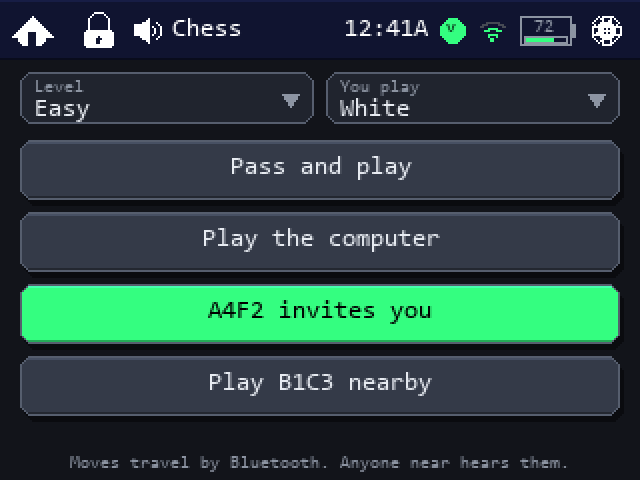
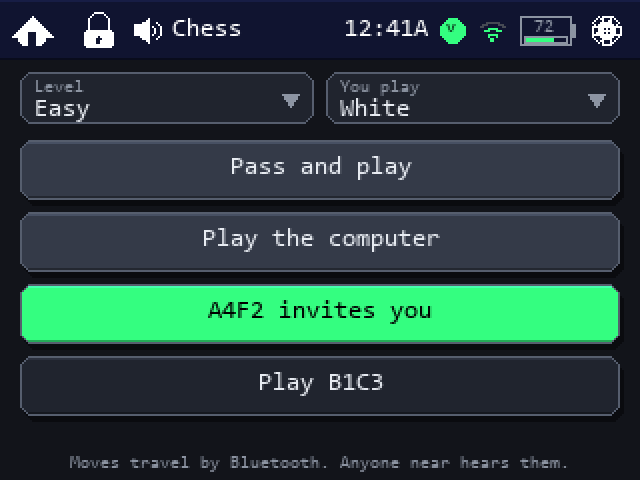
Docs for the nearby lobbies, the lobby mock-ups, and the build figures
CHANGELOG and README describe the lobbies: who is in the room, standing
invitations (issue 232), the console-owned save, Go's rules in the session
number. Root CLAUDE.md states the Stops exception to the Attaky-only rule
and the session-number gap for a game kept only in the console's slot.
The Chess, Go and Backgammon lobby mock-ups show the new rows.

pio run -e app: flash 2,645,037 (84.1%), RAM 92,868 (28.3%).

Changed region(s): [[0.0312, 0.7188, 0.9688, 0.875]]

diff --git a/tools/gen_screens.py b/tools/gen_screens.py
@@ -100,6 +100,20 @@ def button(d, r, label, fill=None, tc=None, f=F2):
     d.text((x + (w - d.textlength(s, font=f)) / 2, y + h / 2 - f.size / 2 - 1), s, font=f, fill=tc)
 
 
+def plain_row(d, r, label, f=F2):
+    """A lobby row that only says what another console is doing: a plain
+    fill with no outline and no shadow, and muted words -- not a button,
+    because nothing happens when it is pressed (drawPlainRow() in the games'
+    lobby code)."""
+    x, y, w, h = r
+    d.rounded_rectangle([x, y, x + w - 1, y + h - 1], 6, fill=SURFACE)
+    s = label
+    while s and d.textlength(s, font=f) > w - 12:
+        s = s[:-1]
+    d.text((x + (w - d.textlength(s, font=f)) / 2, y + h / 2 - f.size / 2 - 1), s, font=f,
+           fill=MUTED)
+
+
 def fitted_text(d, text, max_w, f):
     s = text
     while len(s) > 2 and d.textlength(s, font=f) > max_w:
@@ -909,12 +923,17 @@ def backgammon(selected=12, targets=frozenset({7, 9}), moves=()):
 
 def backgammon_lobby():
     """Backgammon: three ways to play -- one console, the computer, or a
-    console nearby. One nearby console is offering a game."""
+    console nearby. Each console in the room is a row saying what it is
+    doing: one offers this console a game, one is playing a third, which is
+    a plain row because pressing it does nothing."""
     im, d = blank(); topbar(d, "Backgammon")
     rows = [("Two players", PANEL, TEXT), ("Play the computer", PANEL, TEXT),
-            ("A4F2 invites you", SUCCESS, (0, 0, 0)), ("Play B1C3 nearby", SURFACE, TEXT)]
+            ("A4F2 invites you", SUCCESS, (0, 0, 0)), ("B1C3 is playing 7E09", None, None)]
     for r, (label, fill, ink) in enumerate(rows):
-        button(d, (10, 38 + r * 34, 300, 30), label, fill=fill, tc=ink)
+        if fill is None:
+            plain_row(d, (10, 38 + r * 34, 300, 30), label)
+        else:
+            button(d, (10, 38 + r * 34, 300, 30), label, fill=fill, tc=ink)
     note = "Moves travel by Bluetooth. Anyone near hears them."
     d.text(((W - d.textlength(note, font=F1)) / 2, H - 14), note, font=F1, fill=MUTED)
     return im
@@ -2360,9 +2379,13 @@ def go_lobby():
         d.text((x + 7, 48), value, font=F2, fill=TEXT)
         d.polygon([(x + cw - 16, 47), (x + cw - 8, 47), (x + cw - 12, 53)], fill=MUTED)
     rows = [("Pass and play", PANEL, TEXT), ("Play the computer", PANEL, TEXT),
-            ("A4F2 invites you", SUCCESS, (0, 0, 0)), ("Play B1C3 nearby", SURFACE, TEXT)]
+            ("A4F2 invites you: Capture 1", SUCCESS, (0, 0, 0)),
+            ("B1C3 is asking 7E09", None, None)]
     for r, (label, fill, ink) in enumerate(rows):
-        button(d, (8, 70 + r * 36, W - 16, 31), label, fill=fill, tc=ink)
+        if fill is None:
+            plain_row(d, (8, 70 + r * 36, W - 16, 31), label)
+        else:
+            button(d, (8, 70 + r * 36, W - 16, 31), label, fill=fill, tc=ink)
     d.text((W // 2, H - 4), "Moves travel by Bluetooth. Anyone near hears them.",
            font=F1, fill=MUTED, anchor="ms")
     return im
@@ -2389,7 +2412,7 @@ def chess_lobby():
         d.text((x + 7, 48), value, font=F2, fill=TEXT)
         d.polygon([(x + cw - 16, 47), (x + cw - 8, 47), (x + cw - 12, 53)], fill=MUTED)
     rows = [("Pass and play", PANEL, TEXT), ("Play the computer", PANEL, TEXT),
-            ("A4F2 invites you", SUCCESS, (0, 0, 0)), ("Play B1C3 nearby", PANEL, TEXT)]
+            ("A4F2 invites you", SUCCESS, (0, 0, 0)), ("Play B1C3", SURFACE, TEXT)]
     for r, (label, fill, ink) in enumerate(rows):
         button(d, (10, 70 + r * 36, W - 20, 30), label, fill=fill, tc=ink)
     d.text((W // 2, H - 6), "Moves travel by Bluetooth. Anyone near hears them.",

diff --git a/CHANGELOG.md b/CHANGELOG.md
@@ -144,6 +144,38 @@ now runs 260ms in every 780ms -- the same share of the radio's time -- which
 never lets the two fall out of step for long, and a game waits fifteen
 seconds rather than six before pausing.
 
+**Every game played across consoles has a lobby that shows the room.**
+Chess, Go, Backgammon, Sea Battle and Ludo list every console nearby and what
+it is doing: inviting you, asking somebody else, playing whom, or free. A row
+that only describes a console is not drawn as a button. Three changes, each
+agreed with the maintainer as a change to how the existing beacon is used and
+none adding a byte to it:
+
+- **An invitation stands until it is answered** (issue 232). It left the air
+  after six seconds, so the console that asked waited for ever and a late tap
+  on the other became a second invitation crossing the first. It now stays up
+  until it is accepted, taken back or replaced; two consoles that ask each
+  other at once are settled by tag, with no clock.
+- **A game across consoles is the console's.** It is saved in the console's
+  own slot rather than the player's, kept through a change of player and a
+  power cut -- Guest included -- and never written over a player's own game
+  against the computer. Each game saves under its own key; all five shared
+  one, so playing Ludo destroyed a Chess game in the middle.
+- **Go states its rules and board in the session number**, so two consoles
+  with different chips can no longer play different games at each other.
+
+A console that is heard but has left the game -- lost it, started another,
+switched Nearby off -- now pauses the game like one gone quiet, with "Not in
+this game" on the card. On the other player's turn the board takes no press
+and the d-pad's selector does not stop on it. In Go the press that left the
+lobby no longer goes on to put a stone's ghost on the board, and the console
+that asked for a game of Go now takes in the answer. Go and Backgammon now
+take an ending that arrives after a move they never heard, and Sea Battle
+refuses a shot sent out of turn. A console you are playing no longer raises
+"is playing" notices over the board -- one sat on Sea Battle's End game --
+and the waiting card's *Keep waiting* is no longer cut short. Walked on two
+and three PC consoles through the loopback radio; not yet on two real radios.
+
 **Leaving a nearby game no longer ends it.** Going Home in the middle of a
 game of Chess, Go, Backgammon, Sea Battle or Ludo played across consoles
 saves it and keeps its last move on the air, so the other console still

diff --git a/CLAUDE.md b/CLAUDE.md
@@ -745,9 +745,9 @@ The same reasoning applies to any lock PlatformIO itself leaves in `~/.platformi
 
 ### Shared budgets
 
-Flash is global and nearly the binding constraint (2,644,341 / 3,145,728 bytes,
+Flash is global and nearly the binding constraint (2,645,037 / 3,145,728 bytes,
 **84.1%**; NimBLE plus the BT controller account for ~192 KB of that). RAM sits
-at 92,836 / 327,680 (28.3%) -- higher than it was, deliberately: RowList traded
+at 92,868 / 327,680 (28.3%) -- higher than it was, deliberately: RowList traded
 864 bytes of static RAM for zero heap traffic and storage diagnostics keep their
 profile-move buffers static. On this device that is a good
 trade every time. Two agents can each add artwork that fits locally and together overflow it. Read the size line from `pio run` and report it when you add data tables or images.
@@ -1065,6 +1065,11 @@ and it is the same guard, not a second one: it sleeps through the ordinary
   `pollControls`, `pollTypedChar`, `typedChar`, `selectorFrame`,
   `Focus::`, `BoardExpander`, `sampleModuleBattery`, `Modules::` or
   `i2sUp`, and it carries no RAM beyond what the shared code costs.
+  **One stated exception: `src/ui/Stops.{h,cpp}`**, what a game says about
+  its board (`Ui::setBoardStops()`) and a card over it. It compiles on every
+  board because the PC and RG40XX V builds read it (`HostTftFocus.cpp`), and
+  they define no `GUME_HAS_NAV_KEYS` -- their selector is the host's. It is
+  two rectangles and a flag, assigned per frame and drawn by nothing.
 
 | Layer | Where | Responsibility |
 |---|---|---|
@@ -1305,7 +1310,11 @@ and it is the same guard, not a second one: it sleeps through the ordinary
   the first game's -- the payload has room for one -- and the first says it
   again when its screen comes back; meanwhile its peer sees it as Away. A new
   game's session number comes from `nearbyFreshSession()`, which steps past
-  every session this console still holds a turn for.
+  every session this console still holds a turn for. **A known gap:** it
+  knows only the turns in RAM, so a game kept in the console's slot whose
+  turn was since replaced by another game's is in no table, and a later game
+  with the same peer can be given its number. When the kept game reopens,
+  its ply and legality checks are what refuse the other game's moves.
 - **An invitation stands until it is answered.** It used to leave the air
   after six seconds, like a poke; the console that asked then waited for ever
   and the other player's late tap became a second invitation crossing the

diff --git a/README.md b/README.md
@@ -40,8 +40,8 @@ no data collection.** Two radios exist and both are narrow by design:
 | | |
 |---|---|
 | Games | 40 |
-| Flash | 2,644,341 / 3,145,728 bytes of the app partition (**84.1%**) |
-| RAM | 92,836 / 327,680 bytes (**28.3%**) |
+| Flash | 2,645,037 / 3,145,728 bytes of the app partition (**84.1%**) |
+| RAM | 92,868 / 327,680 bytes (**28.3%**) |
 | Artwork | 195 country flags, 50 state flags, 50 state outlines — about 755 KB (30% of the image) |
 
 Contribution workflow lives in [CONTRIBUTING.md](CONTRIBUTING.md), alongside
@@ -1370,7 +1370,7 @@ is not derived from anything a player entered. Advertising is **non-connectable*
 there is no GATT server, so there is nothing to connect to.
 
 **Consoles can play each other over it.** When players start a game from the
-Chess, Sea Battle, Ludo or Backgammon lobby, each console advertises its latest turn: a
+Chess, Go, Sea Battle, Ludo or Backgammon lobby, each console advertises its latest turn: a
 session number, a move number, two small numbers saying what was played, and
 how far it has caught up with everyone else. In Chess the two numbers are
 squares; in Ludo they are a seat and a token, in Backgammon the point a checker
@@ -1382,6 +1382,14 @@ score travels with a move, and the moves occupy the same four bytes the best
 score normally uses, because the advertisement is already full at 31 bytes.
 Ludo seats up to four consoles; that uses the same turn, read by more consoles,
 and adds nothing to what any one of them transmits.
+
+**Each lobby shows the room.** Every console nearby is a row saying what it is
+doing -- inviting you, asking somebody else, playing whom, or free -- all read
+from what consoles already advertise. An invitation stays on the air until it
+is answered or taken back, so the other player can take their time; Go's says
+which rules and board it offers, inside the session number it already carries.
+A game across consoles is saved as the console's, not the player's, so it is
+still there after a change of player or a power cut, for Guest too.
 
 **If the other console goes quiet, the game pauses and says so.** A battery
 going flat or a young player walking into the next room cannot send anything, so the
